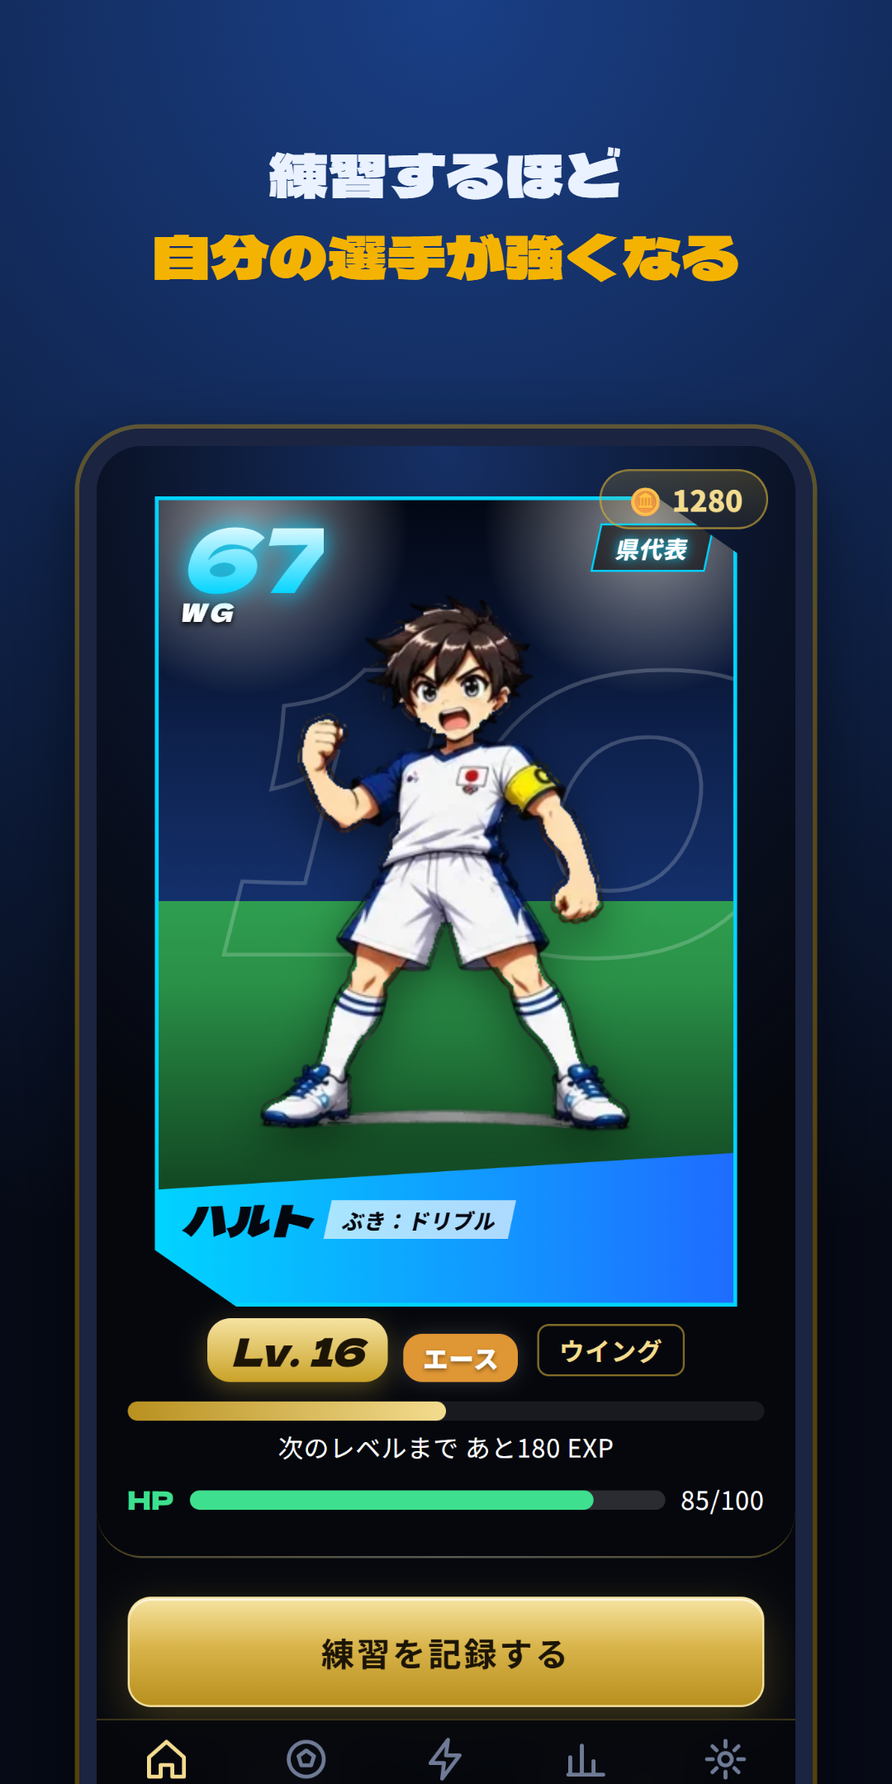
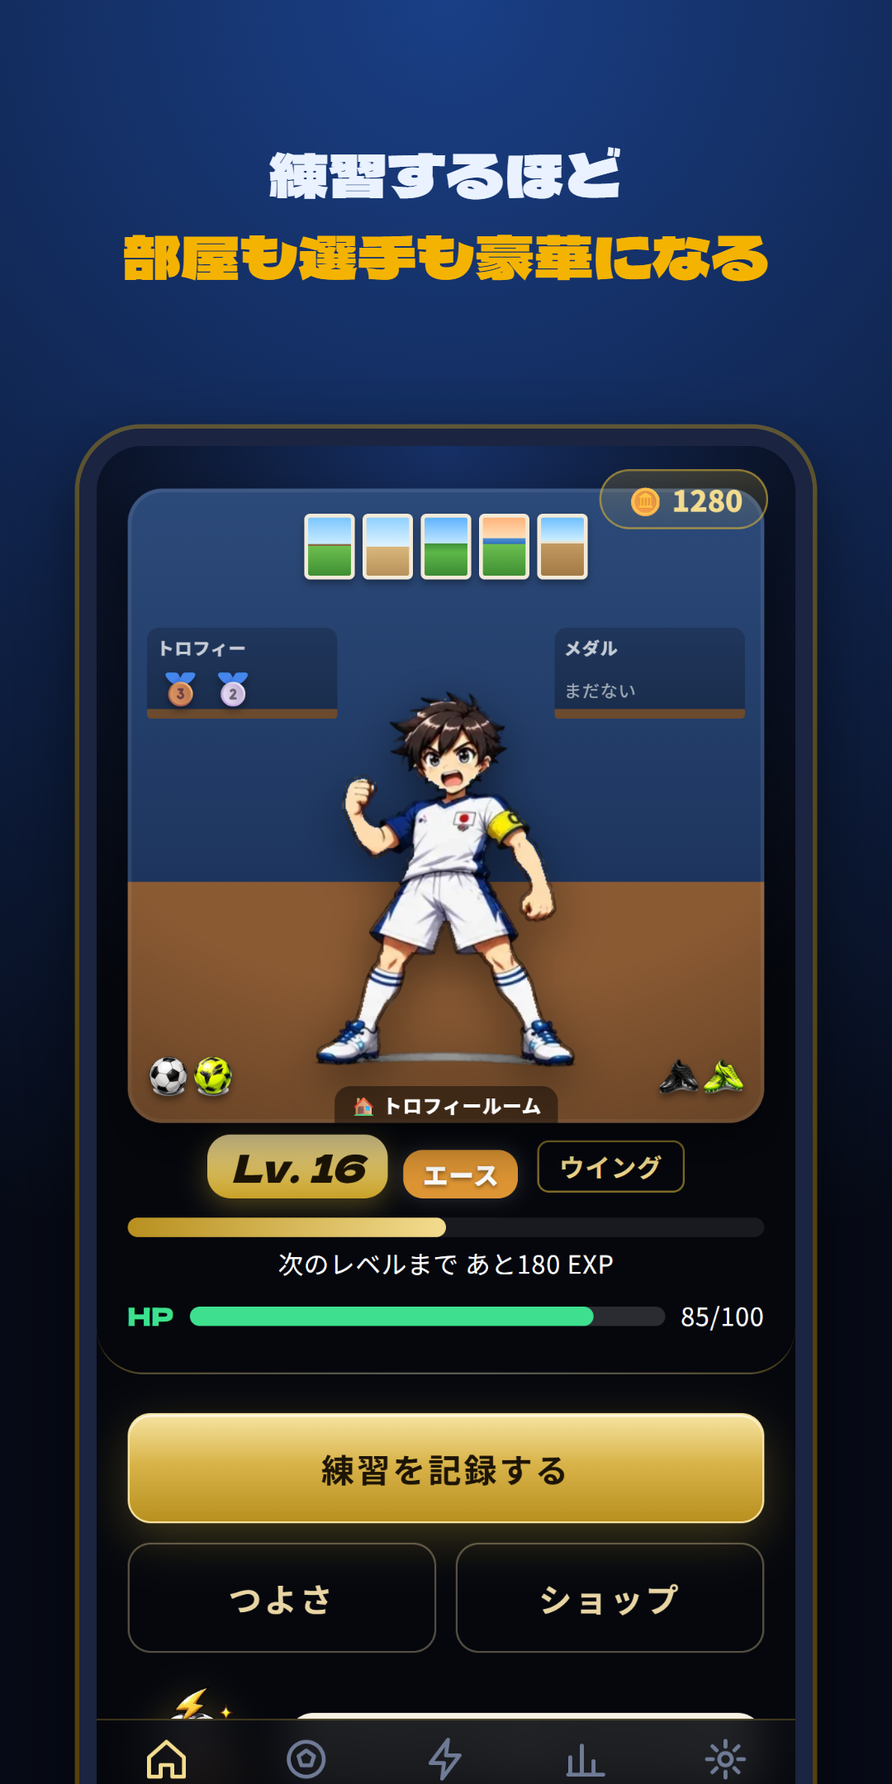
v0.10.0：マイページを「部屋」に、練習画面の上に大きなマイキャラと練習場所
- マイページを部屋に：階級と同時に8段階で引っこし（せまい物置部屋 → 豪邸の殿堂ルーム）。広い部屋ほど飾れる数が増える
  - トロフィー（ライバル撃破・練習10/30/60/100日）、メダル（熟練度ゴールド以上）、ボール・スパイク、行った練習場所のポスターが部屋に増えていく
  - 部屋をタップすると、飾りの数と次の引っこし先を表示
- 練習画面の上に、今の練習場所の背景と大きなマイキャラ（次の場所まであとLv.いくつか）
- ステージを「練習する場所」に変更：家の庭→近所の公園→大きな公園→河川敷→小学校のグラウンド→フットサルコート→天然芝のピッチ→満員のスタジアム
- 絵が届くまでは仮のグラデーション。img/stages/stage-N.webp・img/room/room-N.webp を入れると自動で切りかわる
- AI用プロンプトに練習場所・部屋の背景を追加、切り出しツールに背景用の --raw を追加
- テストを追加（28件）、ストア画像を撮り直し

diff --git a/app.js b/app.js
@@ -400,7 +400,7 @@ function dressed(s,over){
 }
 
 /* ===== アプリ内ダイアログ（ブラウザ標準の alert/confirm は使わない） ===== */
-const APP_VERSION='0.9.1';
+const APP_VERSION='0.10.0';
 function closeOv(){document.getElementById('ov').classList.remove('show')}
 function dialog({icon='',title,msg='',ok='OK',cancel=null,danger=false}){
   return new Promise(res=>{
@@ -429,7 +429,7 @@ function parentGate(){
 /* ===== はじめての人向けの 遊び方 ===== */
 const TUT=[
   {ic:'⚽',b:'smile',t:'練習を記録しよう',m:'ボクは相棒のボルト！ 練習したら「れんしゅう」から記録。経験値（EXP）がたまってレベルが上がり、能力が伸びていくよ。'},
-  {ic:'🏟',b:'joy',t:'カードが進化する',m:'レベルが上がると、おうちの庭 → 公園 → チーム → トレセン …そしてワールドクラスへ！'},
+  {ic:'🏟',b:'joy',t:'カードが進化する',m:'レベルが上がると、練習場所が 家の庭 → 公園 → 河川敷 … そして満員のスタジアムへ！ 自分の部屋も広く豪華になっていくよ。'},
   {ic:'📜',b:'serious',t:'クエストとライバル',m:'毎日3つのクエストと、週替わりのライバルに挑戦。クリアするとボーナスがもらえるよ。'},
   {ic:'🪙',b:'chest',t:'コインでショップ',m:'練習するとコインがたまる。ショップでボールやスパイクと交換して、着せ替えしよう。'},
   {ic:'🏨',b:'sleep',t:'休むのも練習',m:'HPが減ったら宿屋で休もう。体は休んでいる間に強くなる。目標は週4日の練習だよ。'},
@@ -732,18 +732,32 @@ function norm(c){
 const MIR=x=>`<g transform="translate(200 0) scale(-1 1)">${x}</g>`;
 
 /* 成長ステージ：レベルで かいほう。ステージが上がるほど 舞台と ポーズが かっこよくなる */
+/* ステージ＝練習する場所（レベルで上がる）。絵は img/stages/stage-1〜8.webp（なければ下のグラデーション） */
 const STAGES=[
-  {lv:1,  name:'おうちの庭',  bg:'linear-gradient(180deg,#5fb3ff 0%,#bfe6ff 52%,#58b04a 52%,#2f7d2a 100%)'},
-  {lv:3,  name:'公園', bg:'linear-gradient(180deg,#ff9a5a 0%,#ffd9a8 50%,#7cc35b 50%,#3f8a3a 100%)'},
-  {lv:6,  name:'チーム入団', bg:'linear-gradient(180deg,#2a6fdb 0%,#9ccaff 48%,#c9a46a 48%,#8b6a3a 100%)'},
-  {lv:10, name:'トレセン',       bg:'linear-gradient(180deg,#0e2a5a 0%,#2d5fa8 48%,#2fa84f 48%,#1d6b33 100%)'},
-  {lv:15, name:'県代表',  bg:'linear-gradient(180deg,#050b1f 0%,#14306b 50%,#2f9e4f 50%,#155c2b 100%)'},
-  {lv:21, name:'地方代表', bg:'linear-gradient(180deg,#0b0620 0%,#3a1f73 50%,#2f9e4f 50%,#155c2b 100%)'},
-  {lv:28, name:'日本代表', bg:'radial-gradient(circle at 50% 38%,#4a8dff 0,#0b2a8a 45%,#030a2a 100%)'},
-  {lv:36, name:'ワールドクラス',   bg:'radial-gradient(circle at 50% 38%,#fff3a0 0,#ff9d00 30%,#7a1f00 65%,#120400 100%)'},
+  {lv:1,  name:'家の庭',           bg:'linear-gradient(180deg,#7cc6ff 0%,#c9ecff 46%,#8a6a45 46%,#8a6a45 49%,#6cbf4f 49%,#3f8f33 100%)'},
+  {lv:3,  name:'近所の公園',       bg:'linear-gradient(180deg,#8fd0ff 0%,#dff3ff 50%,#d9b77c 50%,#b8915a 100%)'},
+  {lv:6,  name:'大きな公園',       bg:'linear-gradient(180deg,#5fb3ff 0%,#bfe6ff 44%,#3f8f3a 44%,#5cb848 60%,#3c8a34 100%)'},
+  {lv:10, name:'河川敷',           bg:'linear-gradient(180deg,#ffb37a 0%,#ffe0b8 36%,#4f8fd6 36%,#2f6fb8 46%,#6cbf4f 46%,#3f8f33 100%)'},
+  {lv:15, name:'小学校のグラウンド', bg:'linear-gradient(180deg,#6fbfff 0%,#cdeeff 40%,#e8e2d4 40%,#e8e2d4 44%,#c49a62 44%,#a37a45 100%)'},
+  {lv:21, name:'フットサルコート', bg:'radial-gradient(circle at 20% 8%,rgba(255,255,255,.7),transparent 14%),radial-gradient(circle at 80% 8%,rgba(255,255,255,.7),transparent 14%),linear-gradient(180deg,#0b1a3a 0%,#1d3b6e 42%,#20a34a 42%,#1a8a3d 100%)'},
+  {lv:28, name:'天然芝のピッチ',   bg:'repeating-linear-gradient(90deg,rgba(255,255,255,.05) 0 28px,transparent 28px 56px),linear-gradient(180deg,#3d8fe0 0%,#a9d8ff 40%,#2f9e4f 40%,#1f7a3a 100%)'},
+  {lv:36, name:'満員のスタジアム', bg:'radial-gradient(circle at 15% 5%,#fff 0,transparent 12%),radial-gradient(circle at 85% 5%,#fff 0,transparent 12%),repeating-linear-gradient(90deg,#c0392b 0 6px,#f5b301 6px 12px,#2b59c3 12px 18px,#eaeaea 18px 24px),linear-gradient(180deg,#050b1f 0%,#14306b 24%,transparent 24%,transparent 42%,#2fa84f 42%,#155c2b 100%)'},
 ];
+const stageImg=i=>`url('img/stages/stage-${i+1}.webp')`;
 const POSE_OF=[0,0,1,1,2,3,3,4];
 function stageOf(L){let r=0;STAGES.forEach((x,i)=>{if(L>=x.lv)r=i});return r}
+/* 部屋：階級と同じタイミングで引っこし、広く豪華になる。絵は img/room/room-1〜8.webp（なければグラデーション）
+   cap＝飾れる数（トロフィー・メダル・ボール・くつ）。部屋が広いほど たくさん飾れる */
+const ROOMS=[
+  {name:'せまい物置部屋',   wall:'#8d7b68',wall2:'#6f604f',floor:'#7a6048',cap:2},
+  {name:'小さな子ども部屋', wall:'#d9c7a5',wall2:'#bba984',floor:'#9a7650',cap:3},
+  {name:'サッカー好きの部屋',wall:'#9fc3e8',wall2:'#7ea6d1',floor:'#a77b4f',cap:4},
+  {name:'広めの自分の部屋', wall:'#e8e2d4',wall2:'#cfc6b2',floor:'#b8875a',cap:5},
+  {name:'トロフィールーム', wall:'#2c4a7a',wall2:'#1d355e',floor:'#8a5a33',cap:6},
+  {name:'選手寮の広い部屋', wall:'#3a3f4b',wall2:'#2a2e38',floor:'#6b4a2e',cap:7},
+  {name:'高層マンションの部屋',wall:'#1b2a44',wall2:'#0f1a2e',floor:'#3a2a1e',cap:8},
+  {name:'豪邸の殿堂ルーム', wall:'#4a1d1d',wall2:'#2e0f0f',floor:'#5a3a12',cap:10},
+];
 /* 階級：成長ステージ（舞台）と同じレベルで昇格する、選手としての格 */
 const RANKS=['ビギナー','ルーキー','プレイヤー','レギュラー','エース','プロ','スーパースター','レジェンド'];
 const RANK_COL=['#8D939D','#36A269','#398BDC','#9062D0','#DF9634','#E34F4F','#24B9DF','#D4A52D'];
@@ -969,7 +983,7 @@ const POS_SHORT={'ウイング':'WG','トップ下':'OMF','ストライカー':'
 function cardView(s,L,i,opt={}){
   const st=STAGES[i], c=dressed(s,opt.over), lk=opt.locked;
   const bgi=BGS.find(x=>x.id===({...wear(s),...(opt.over||{})}).bg);
-  const bgStyle=bgi&&bgi.bg?`background-image:${bgi.bg}`:`background-image:url('img/bg_${i+1}.jpg'),${st.bg}`;
+  const bgStyle=bgi&&bgi.bg?`background-image:${bgi.bg}`:`background-image:${stageImg(i)},${st.bg}`;
   return `<div class="pc s${i} ${opt.mini?'mini':''} ${lk?'locked':''}">
     <div class="pc-bg" style="${bgStyle}"></div><div class="pc-fx"></div>
     <div class="pc-num ${String(c.num).length>2?'n3':''}">${c.num}</div>
@@ -1157,6 +1171,43 @@ function bossCard(){
     <p class="sub" style="margin:4px 0 0">撃破条件：${m.name}の記録で <b style="color:var(--ink)">${B.target}${m.unit}${m.lower?' 以内':' 以上'}</b></p></div></div>
     <p class="sub" style="margin:8px 0 0">${B.beaten?'🎉 撃破済み！ 来週は新しいライバルが登場するよ':'ほうしゅう：100 EXP・🪙150'}</p></div>`;
 }
+/* 部屋に飾るもの（練習でもらったものが増えていく） */
+function roomItems(s){
+  const L=lv(s.xp).L, R=ROOMS[stageOf(L)], days=practiceDays(s);
+  const trophies=[];
+  for(let k=0;k<(s.bossWins||0);k++)trophies.push({ic:'🏆',t:'ライバル撃破'});
+  [[10,'🥉'],[30,'🥈'],[60,'🥇'],[100,'👑']].forEach(([d,ic])=>{if(days>=d)trophies.push({ic,t:`練習${d}日達成`})});
+  const medals=MENUS.map(m=>({m,q:mastery(s,m.id)})).filter(x=>x.q.i>=3).sort((a,b)=>b.q.i-a.q.i).map(x=>({k:x.q.m.k,t:`${x.m.name}：${x.q.m.name}`}));
+  const own=(list)=>list.filter(it=>(s.inv||[]).includes(it.id)&&it.img);
+  return {R,trophies,medals,balls:own(BALLS),boots:own(BOOTS),kits:own(KITS),posters:STAGES.slice(0,stageOf(L)+1)};
+}
+function roomView(s){
+  const L=lv(s.xp).L, i=stageOf(L), X=roomItems(s), R=X.R, cap=R.cap, c=dressed(s);
+  const more=(n)=>n>cap?`<em class="rmore">+${n-cap}</em>`:'';
+  const bg=`url('img/room/room-${i+1}.webp'),linear-gradient(180deg,${R.wall} 0%,${R.wall2} 62%,${R.floor} 62%,${R.floor} 100%)`;
+  return `<div class="room r${i}" style="background-image:${bg}" onclick="roomInfo()">
+    <div class="rposters">${X.posters.map((st,k)=>`<i title="${st.name}" style="background-image:${stageImg(k)},${st.bg}"></i>`).join('')}</div>
+    <div class="rshelf rtro"><b>トロフィー</b><div>${X.trophies.slice(0,cap).map(x=>`<span title="${x.t}">${x.ic}</span>`).join('')||'<small>まだない</small>'}${more(X.trophies.length)}</div></div>
+    <div class="rshelf rmed"><b>メダル</b><div>${X.medals.slice(0,cap).map(x=>`<span class="rmedal ${x.k}" title="${x.t}"></span>`).join('')||'<small>まだない</small>'}${more(X.medals.length)}</div></div>
+    <div class="rchar">${charView(c,L,i)}</div>
+    <div class="rfloor rballs">${X.balls.slice(0,cap).map(it=>`<img src="${it.img}" alt="">`).join('')}</div>
+    <div class="rfloor rboots">${X.boots.slice(0,Math.max(1,cap-1)).map(it=>`<img src="${it.img}" alt="">`).join('')}</div>
+    <div class="rname">🏠 ${R.name}</div>
+  </div>`;
+}
+function roomInfo(){
+  const i=stageOf(lv(S.xp).L), nx=ROOMS[i+1], X=roomItems(S);
+  dialog({icon:'🏠',title:ROOMS[i].name,msg:`トロフィー ${X.trophies.length}個・メダル ${X.medals.length}個・ボール ${X.balls.length}個・スパイク ${X.boots.length}足<br><br>トロフィーはライバルに勝ったり、練習日数を重ねるともらえるよ。メダルは同じ練習を続けて「ゴールド」以上になると飾れるよ。${nx?`<br><br>Lv.${STAGES[i+1].lv}で「${nx.name}」に引っこし！ もっとたくさん飾れるようになるよ。`:'<br><br>最高の部屋だ！'}`});
+}
+/* 練習画面の上：今の練習場所に大きなマイキャラ */
+function stageScene(s){
+  const L=lv(s.xp).L, i=stageOf(L), st=STAGES[i], nx=STAGES[i+1], c=dressed(s);
+  return `<div class="scene s${i}" style="background-image:${stageImg(i)},${st.bg}">
+    <div class="scene-place">📍 ${st.name}</div>
+    <div class="scene-char">${charView(c,L,i)}</div>
+    <div class="scene-foot"><b>Lv.${L}</b> ${rankTag(L)}<span>${nx?`次は「${nx.name}」Lv.${nx.lv}`:'最高の舞台！'}</span></div>
+  </div>`;
+}
 function homeView(){
   recoverHP();dailyCheck();
   const {L,r,n}=lv(S.xp);
@@ -1166,7 +1217,7 @@ function homeView(){
   const t=TITLES.find(x=>x.id===S.eq);
   return `<div class="top">
     <button class="coin" onclick="go('shop')" style="position:absolute;right:14px;top:12px;z-index:5">🪙 ${S.coin||0}</button>
-    ${cardView(S,L,stageOf(L))}
+    ${roomView(S)}
     ${t?`<div class="title-badge" style="margin-top:10px">${t.ic} ${t.name}</div><br>`:''}
     <div class="lv">Lv. ${L}</div> ${rankTag(L)} <span class="jobtag">${J.name}</span>
     <div class="xpbar"><i style="width:${r/n*100}%"></i></div>
@@ -1204,7 +1255,7 @@ let pgrp='touch';
 const stars=lv=>`<span class="stars">${'★'.repeat(lv)}<i>${'★'.repeat(3-lv)}</i></span>`;
 function practiceView(){
   const m=menuOf(draft.menu), boost=boostStats();
-  if(!m) return `<div class="wrap">
+  if(!m) return `${stageScene(S)}<div class="wrap">
     <h2 style="margin:8px 0 4px">何を練習した？</h2>
     <p class="sub" style="margin:0 0 12px">🌱＝今の年齢で伸びやすい練習（経験×1.5）　★＝むずかしさ</p>
     <div class="gtabs">${GRPS.map(g=>`<button class="gtab ${g.id===pgrp?'on':''}" data-g="${g.id}"><span>${g.ic}</span>${g.name}</button>`).join('')}</div>
@@ -1309,7 +1360,7 @@ function gain(xp,notes,coin=0){
   S.xp+=xp;
   const after=lv(S.xp).L;
   if(after>before){S.bp=(S.bp||0)+3*(after-before);notes.push(`育成ポイント +${3*(after-before)}`)}
-  if(stageOf(after)>stageOf(before)){const R=STAGES[stageOf(after)];notes.push(`昇格！ 階級が <b>${rankOf(after)}</b> になった！`);notes.push(`ステージアップ！ <b>${R.name}</b>に進出！`)}
+  if(stageOf(after)>stageOf(before)){const R=STAGES[stageOf(after)];notes.push(`昇格！ 階級が <b>${rankOf(after)}</b> になった！`);notes.push(`📍 練習場所が <b>${R.name}</b> にレベルアップ！`);notes.push(`🏠 部屋が <b>${ROOMS[stageOf(after)].name}</b> に引っこした！`)}
   const {newT,newS,newN}=unlocks();
   newN.forEach(({N,x})=>notes.push(`${N.ic} ${N.name}の二つ名が <b>「${x.t}」</b> になった！`));
   const gear=GEAR.filter(g=>g.lv>before&&g.lv<=after);
@@ -1422,7 +1473,7 @@ function titlesView(){
     <p class="sub" style="margin:0 0 10px">同じ練習を続けたり、能力を上げたりすると技を習得できるよ。${(S.skills||[]).length} / ${SKILLS.length}</p>
     ${skillBoard()}
     <h2 style="margin:20px 0 4px">成長カード</h2>
-    <p class="sub" style="margin:0 0 12px">おうちの庭からワールドクラスまで。レベルが上がると次のステージへ。</p>
+    <p class="sub" style="margin:0 0 12px">家の庭から満員のスタジアムまで。レベルが上がると次の練習場所へ。</p>
     <div class="cgrid">${STAGES.map((r,i)=>cardView(S,r.lv,i,{mini:1,locked:lv(S.xp).L<r.lv})).join('')}</div>
     <h2 style="margin:20px 0 4px">称号</h2>
     <p class="sub" style="margin:0 0 12px">${got} / ${TITLES.length}  獲得。タップでカードに表示する称号を選べるよ。</p>

diff --git a/app.css b/app.css
@@ -407,3 +407,38 @@ li .skchip{display:inline-flex;min-height:0;padding:1px 8px;font-size:13px}
 .nick .nlv{color:var(--gold);font-size:10px;letter-spacing:-1px;text-align:right}
 .nick .nlv i{font-style:normal;color:rgba(234,242,255,.18)}
 .nick .nnext{grid-column:3;color:var(--sub);font-size:10px;text-align:right}
+
+/* ===== 部屋（マイページ）・練習場所のシーン（v0.10.0） ===== */
+.room{position:relative;width:100%;max-width:420px;aspect-ratio:1/1;margin:6px auto 0;border-radius:18px;overflow:hidden;background-size:cover,cover;background-position:center;box-shadow:inset 0 0 0 2px rgba(255,255,255,.08),0 10px 24px rgba(0,0,0,.45);cursor:pointer;text-align:left}
+.room::after{content:"";position:absolute;inset:0;background:radial-gradient(120% 90% at 50% 30%,transparent 55%,rgba(0,0,0,.35));pointer-events:none}
+.room .rposters{position:absolute;top:4%;left:50%;transform:translateX(-50%);display:flex;gap:4px;z-index:1}
+.room .rposters i{display:block;width:26px;height:34px;border:2px solid #f3ead8;border-radius:3px;background-size:cover;background-position:center;box-shadow:0 2px 4px rgba(0,0,0,.35)}
+.room .rshelf{position:absolute;top:22%;width:30%;z-index:1;background:linear-gradient(180deg,rgba(0,0,0,.18),rgba(0,0,0,.28));border-bottom:5px solid #6b4a2e;border-radius:6px 6px 2px 2px;padding:4px 5px 3px}
+.room .rshelf b{display:block;font-size:9px;color:rgba(255,255,255,.75);font-weight:800}
+.room .rshelf div{display:flex;flex-wrap:wrap;gap:2px;align-items:flex-end;min-height:22px}
+.room .rshelf span{font-size:18px;line-height:1;filter:drop-shadow(0 2px 2px rgba(0,0,0,.4))}
+.room .rshelf small{font-size:9px;color:rgba(255,255,255,.6)}
+.room .rtro{left:3%}.room .rmed{right:3%}
+.room .rmedal{display:inline-block;width:16px;height:16px;border-radius:50%;border:2px solid rgba(255,255,255,.7);box-shadow:0 2px 3px rgba(0,0,0,.4)}
+.room .rmore{font-style:normal;font-size:10px;color:#fff;font-weight:800;margin-left:2px}
+.room .rchar{position:absolute;left:50%;bottom:6%;height:64%;transform:translateX(-50%);z-index:2;aspect-ratio:1/1;display:flex;justify-content:center;align-items:flex-end}
+.room .rchar .avwrap,.scene .scene-char .avwrap{height:100%;position:relative}
+.room .rchar img,.room .rchar svg{max-height:100%}
+.room .rfloor{position:absolute;bottom:4%;display:flex;gap:1px;z-index:3;align-items:flex-end}
+.room .rfloor img{width:22px;height:22px;object-fit:contain;filter:drop-shadow(0 2px 2px rgba(0,0,0,.45))}
+.room .rballs{left:3%;max-width:30%;flex-wrap:wrap}.room .rboots{right:3%;max-width:30%;flex-wrap:wrap;justify-content:flex-end}
+.room .rname{position:absolute;left:8px;bottom:-1px;z-index:4;font-size:10px;font-weight:800;color:#fff;background:rgba(0,0,0,.45);padding:2px 8px;border-radius:8px 8px 0 0;display:none}
+.room .rname{display:block;left:50%;transform:translateX(-50%);bottom:0}
+.room.r6,.room.r7{box-shadow:inset 0 0 0 2px rgba(245,179,1,.45),0 0 24px rgba(245,179,1,.25),0 10px 24px rgba(0,0,0,.45)}
+.scene{position:relative;height:300px;margin:0 0 8px;background-size:cover,cover;background-position:center;border-radius:0 0 24px 24px;overflow:hidden;border-bottom:2px solid rgba(212,175,55,.45)}
+.scene::after{content:"";position:absolute;inset:0;background:linear-gradient(180deg,rgba(0,0,0,.25),transparent 30%,transparent 65%,rgba(0,0,0,.55));pointer-events:none}
+.scene .scene-place{position:absolute;top:10px;left:12px;z-index:3;font-weight:900;font-size:14px;color:#fff;background:rgba(0,0,0,.45);padding:3px 10px;border-radius:10px}
+.scene .scene-char{position:absolute;left:50%;bottom:34px;height:250px;aspect-ratio:1/1;transform:translateX(-50%);z-index:2;display:flex;justify-content:center;align-items:flex-end}
+.scene .scene-char img,.scene .scene-char svg{max-height:100%}
+.scene .scene-foot{position:absolute;left:0;right:0;bottom:8px;z-index:3;display:flex;align-items:center;gap:6px;padding:0 12px;color:#fff;font-size:12px}
+.scene .scene-foot b{font-family:"Dela Gothic One",sans-serif;font-size:16px}
+.scene .scene-foot span:last-child{margin-left:auto;opacity:.9}
+.ranktag,.stv-rank{white-space:nowrap}
+.scene{height:330px}
+.scene .scene-char{height:236px;bottom:40px}
+.scene .scene-foot span:last-child{font-size:11px;white-space:nowrap}

diff --git a/tools/store_shots.js b/tools/store_shots.js
@@ -15,7 +15,7 @@ const TYPES = { '.html': 'text/html; charset=utf-8', '.js': 'text/javascript; ch
 
 // 撮る画面と、上にのせる説明文
 const SHOTS = [
-  { tab: 'home', file: '1-home', cap: '練習するほど<br><em>自分の選手が強くなる</em>' },
+  { tab: 'home', file: '1-home', cap: '練習するほど<br><em>部屋も選手も豪華になる</em>' },
   { tab: 'status', file: '2-status', cap: '能力ランクと階級で<br><em>成長がひと目でわかる</em>' },
   { tab: 'practice', file: '3-practice', cap: '57種類の練習メニューを<br><em>イラストでわかりやすく</em>' },
   { tab: 'skill', file: '4-skill', cap: '練習を続けて<br><em>個人技スキルを習得</em>', js: "document.querySelector('.skhead').scrollIntoView()" },

diff --git a/sw.js b/sw.js
@@ -1,6 +1,6 @@
 /* オフラインでも起動できるようにする Service Worker
    アプリを更新したら VERSION を上げると、古いキャッシュが入れかわる */
-const VERSION = 'rq-0.9.1';
+const VERSION = 'rq-0.10.0';
 const CORE = ['./', './index.html', './app.css', './app.js', './manifest.webmanifest',
   './icons/icon-192.png', './icons/icon-512.png', './icons/apple-touch-icon.png', './fonts/fonts.css'];
 

diff --git a/tools/slice_sheet.py b/tools/slice_sheet.py
@@ -188,6 +188,7 @@ def main():
     ap.add_argument('--band', type=int, default=3, help='ふちの色戻しの幅（px）。大きな1人絵で輪郭線の内側が欠けるときは 1 に')
     ap.add_argument('--auto-holes', type=int, default=0, help='囲まれた背景を自動で消す（背景色からの許容差。例 4）。格子状のシート向け')
     ap.add_argument('--hole-area', type=int, default=300, help='--auto-holes で消す最小の広さ（画素数）')
+    ap.add_argument('--raw', action='store_true', help='背景の絵（風景・部屋）用：透明にせず、そのまま切り分けるだけ')
     ap.add_argument('--xs', default='', help='列の区切り位置（px）を手で指定。エフェクトがとなりのマスにはみ出すとき。例 0,390,880,1215,1774')
     ap.add_argument('--ys', default='', help='行の区切り位置（px）を手で指定')
     a = ap.parse_args()
@@ -204,9 +205,14 @@ def main():
     for j in range(a.rows):
         for i in range(a.cols):
             box = (xs[i], ys[j], xs[i+1], ys[j+1])
-            cell = trim_square(drop_fragments(remove_bg(sheet.crop(box), a.tol, holes, a.shadow, a.band, a.auto_holes, a.hole_area), a.keep))
-            if cell.width > a.size:
-                cell = cell.resize((a.size, a.size), Image.LANCZOS)
+            if a.raw:
+                cell = sheet.crop(box).convert('RGB')
+                if cell.width > a.size:
+                    cell = cell.resize((a.size, round(cell.height * a.size / cell.width)), Image.LANCZOS)
+            else:
+                cell = trim_square(drop_fragments(remove_bg(sheet.crop(box), a.tol, holes, a.shadow, a.band, a.auto_holes, a.hole_area), a.keep))
+                if cell.width > a.size:
+                    cell = cell.resize((a.size, a.size), Image.LANCZOS)
             name = names[k] if k < len(names) else f'item-{k+1}'
             cell.save(os.path.join(a.out, name + '.webp'), 'WEBP', quality=86, method=6)  # 軽い WebP で保存
             print(f'{name}.webp  {cell.width}px')

diff --git a/CLAUDE.md b/CLAUDE.md
@@ -54,7 +54,8 @@
 - 階級 `RANKS`（ステージと同じレベルで昇格）／能力ランクS〜G `grade()`／メダル `MEDALS`（ビギナー→ダイヤ）／練習の熟練度 `mastery()`
 - 二つ名 `NICKS`（14分野×8段階。能力の分野は能力ランク、練習の分野は回数で上がる）／階級の色 `RANK_COL`
 - 個人技スキル `SKILLS`（金・技・心がまえの札。`name` は保存のキーなので変えない）／つよさ画面 `statusView()`
-- 成長ステージ8段階 `STAGES`（おうちの庭→公園→チーム入団→トレセン→県代表→地方代表→日本代表→ワールドクラス）
+- 練習場所8段階 `STAGES`（家の庭→近所の公園→大きな公園→河川敷→小学校のグラウンド→フットサルコート→天然芝のピッチ→満員のスタジアム）。練習画面の上 `stageScene()`、絵は `img/stages/stage-N.webp`
+- 部屋（マイページ）8段階 `ROOMS`・`roomView()`：階級と同時に引っこし、広く豪華に。飾り（トロフィー・メダル・ボール・くつ・ポスター）が増える。絵は `img/room/room-N.webp`
 - クエスト `QPOOL`／ライバル `BOSSES`／宝箱 `openChest()`／月間ロード `roadReward()`／お守り・ふりかえり `dailyCheck()`
 - ショップ `BALLS` `BOOTS` `KITS` `BGS`（`price:-1` は非売品）／相棒ボルト `buddyLines()`・`BOLT`
 - イラストのキャラ `AVATARS`・`avatarView()`
